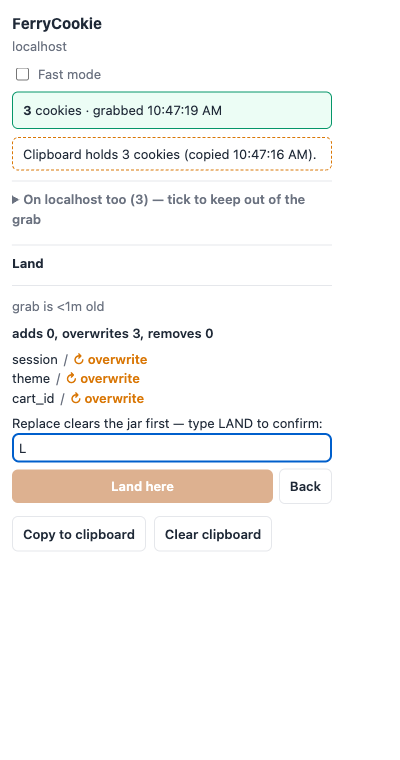
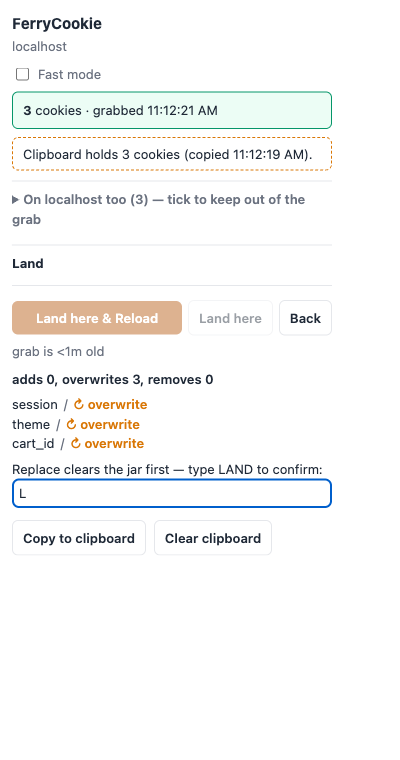
feat: Land here & Reload — the two-click, no-travel fast loop
The diff's action row now leads the screen, and in fast mode it
renders exactly where the fast Land button stood (details and spacing
fold away mid-landing), so the second click lands where the first was:
Fitts's law for the ferry.

The row is three buttons: 'Land here & Reload' (primary — lands,
jar-verifies, then reloads the user's page so the session is visible
immediately), plain 'Land here', and 'Back'. The reload variant only
appears when the active tab IS the landing target — reloading another
page would prove nothing — and reloads the tab resolved at popup-open
(never the popup itself), courtesy-only: a failed reload never taints
the report. Both confirms share one gate (replace's typed LAND,
curated's live checked count, zero-write refusals); Enter stays the
no-reload confirm.

E2e: the fast scenario clicks the reload variant and proves the page
itself reloaded (a pre-set window marker must vanish with the old
context). 16/16. Showcase diff shot regenerated with the new row.

diff --git a/src/popup/land-flow.js b/src/popup/land-flow.js
@@ -53,7 +53,7 @@ const $ = (id) => document.getElementById(id);
 
 const PREFS_KEY = 'fc-land-prefs';
 
-export function initLandFlow({ getProtect, getActiveTabUrl }) {
+export function initLandFlow({ getProtect, getActiveTabUrl, getActiveTab }) {
   const land = {
     view: 'setup', // setup | dialect | diff | report | restore
     chosen: null, // { dialect, parse }
@@ -404,7 +404,16 @@ export function initLandFlow({ getProtect, getActiveTabUrl }) {
 
     const activeUrl = getActiveTabUrl();
     const activeHost = typeof activeUrl === 'string' && activeUrl ? jarKey(activeUrl) : null;
-    $('land-confirm').textContent = activeHost === pipeline.targetHost ? 'Land here' : `Land to ${pipeline.targetHost}`;
+    const here = activeHost === pipeline.targetHost;
+    $('land-confirm').textContent = here ? 'Land here' : `Land to ${pipeline.targetHost}`;
+    // The reload variant only makes sense when the active tab is the target
+    // — reloading some other page would prove nothing about the landing.
+    const reloadBtn = $('land-confirm-reload');
+    reloadBtn.hidden = !here;
+    if (here) reloadBtn.textContent = 'Land here & Reload';
+    // One amber primary per screen: with both shown, the reload path is the
+    // goal continuation and the plain confirm steps back to an outline.
+    $('land-confirm').classList.toggle('secondary', here);
     updateConfirmGate();
   }
 
@@ -471,43 +480,41 @@ export function initLandFlow({ getProtect, getActiveTabUrl }) {
 
   function updateConfirmGate() {
     const plan = land.plan;
-    const confirm = $('land-confirm');
+    let disabled;
+    let why = '';
     if (plan.mode === 'replace') {
-      confirm.disabled = $('land-type-land').value !== 'LAND';
-      return;
-    }
-    if (plan.mode === 'curated') {
+      disabled = $('land-type-land').value !== 'LAND';
+    } else if (plan.mode === 'curated') {
       // Gate on the LIVE checked-row count, not the stale full plan — an
       // empty curated selection must never reach a landing.
-      confirm.disabled = checkedCount() === 0;
-      if (confirm.disabled && land.view === 'diff') {
-        reason('curated landing refused — no rows checked (nothing would land, no snapshot taken)');
-      } else {
-        reason('');
-      }
-      return;
-    }
-    confirm.disabled = plan.writes.length === 0;
-    if (confirm.disabled && land.view === 'diff') {
-      // Name the actual cause — zero writes can come from kept rows,
-      // protected rows, or invalid rows, not only "already present".
-      if (plan.keptExisting.length) {
-        reason('nothing to write — every row is already present (fill-gaps keeps them)');
-      } else if (plan.skippedProtectedCount) {
-        reason('nothing to write — every row is protected (skipped, never written)');
-      } else {
-        reason('nothing to write — no rows survived validation');
+      disabled = checkedCount() === 0;
+      if (disabled && land.view === 'diff') {
+        why = 'curated landing refused — no rows checked (nothing would land, no snapshot taken)';
       }
     } else {
-      reason('');
+      disabled = plan.writes.length === 0;
+      if (disabled && land.view === 'diff') {
+        // Name the actual cause — zero writes can come from kept rows,
+        // protected rows, or invalid rows, not only "already present".
+        if (plan.keptExisting.length) {
+          why = 'nothing to write — every row is already present (fill-gaps keeps them)';
+        } else if (plan.skippedProtectedCount) {
+          why = 'nothing to write — every row is protected (skipped, never written)';
+        } else {
+          why = 'nothing to write — no rows survived validation';
+        }
+      }
     }
+    $('land-confirm').disabled = disabled;
+    $('land-confirm-reload').disabled = disabled; // same gate, both confirms
+    if (land.view === 'diff') reason(why);
   }
 
   // -------------------------------------------------------------------------
   // Confirm → land → report
   // -------------------------------------------------------------------------
 
-  async function onConfirm() {
+  async function onConfirm({ reload = false } = {}) {
     const { targetHost, foreign, filtered, invalid, protect, duplicatesCollapsed } = land.pipeline;
     let plan = land.plan;
     let rows = land.pipeline.rows; // the rows the executed plan must be re-derived from
@@ -549,8 +556,21 @@ export function initLandFlow({ getProtect, getActiveTabUrl }) {
       land.undoSnapshot = result.snapshot;
       renderReport(result.report);
       show('report');
+      if (reload) await reloadActiveTab();
     } catch (err) {
       reason('landing failed: ' + (err?.message ?? String(err)));
+    }
+  }
+
+  // Land & Reload: after the report is on screen, refresh the user's page —
+  // the tab resolved at popup-open (never the popup itself), reloaded only
+  // when it is the landing target. A failed reload never taints the report.
+  async function reloadActiveTab() {
+    try {
+      const tab = getActiveTab?.();
+      if (tab?.id != null) await chrome.tabs.reload(tab.id);
+    } catch {
+      // the landing already reported; the reload is a courtesy
     }
   }
 
@@ -734,6 +754,7 @@ export function initLandFlow({ getProtect, getActiveTabUrl }) {
   });
   $('land-type-land').addEventListener('input', updateConfirmGate);
   $('land-confirm').addEventListener('click', () => guarded(onConfirm));
+  $('land-confirm-reload').addEventListener('click', () => guarded(() => onConfirm({ reload: true })));
   $('land-cancel').addEventListener('click', () => {
     reason('');
     show('setup');

diff --git a/src/popup/popup.html b/src/popup/popup.html
@@ -127,6 +127,15 @@
     </div>
 
     <div id="land-diff" hidden>
+      <!-- The action row leads the screen — in fast mode it renders where
+           the fast Land button was, so the second click needs no mouse
+           travel. Land & Reload appears only when the active tab IS the
+           target (reloading another page would prove nothing). -->
+      <div class="land-row">
+        <button id="land-confirm-reload">Land here &amp; Reload</button>
+        <button id="land-confirm">Land</button>
+        <button id="land-cancel" class="secondary">Back</button>
+      </div>
       <p id="land-freshness" class="meta"></p>
       <p id="land-math"></p>
       <p id="land-capacity" class="warn-line" hidden></p>
@@ -134,10 +143,6 @@
       <div id="land-replace-gate" hidden>
         <label for="land-type-land">Replace clears the jar first — type LAND to confirm:</label>
         <input type="text" id="land-type-land" autocomplete="off" spellcheck="false">
-      </div>
-      <div class="land-row">
-        <button id="land-confirm">Land</button>
-        <button id="land-cancel" class="secondary">Back</button>
       </div>
     </div>
 

diff --git a/src/popup/popup.css b/src/popup/popup.css
@@ -100,6 +100,19 @@ body.landing #fast-view {
   display: none;
 }
 
+/* Fast mode mid-landing: the diff's action row takes the fast button's
+   place — nothing between the header and it, so the second click lands
+   where the first one was. */
+body.fast.landing #fast-details {
+  display: none;
+}
+
+body.fast.landing #land-views {
+  margin-top: 0;
+  border-top: none;
+  padding-top: 0;
+}
+
 #land-views {
   margin-top: 12px;
   border-top: 1px solid var(--line);

diff --git a/src/popup/popup.js b/src/popup/popup.js
@@ -54,6 +54,7 @@ async function init() {
   landFlowApi = initLandFlow({
     getProtect: () => state.protect,
     getActiveTabUrl: () => state.tab?.url ?? null,
+    getActiveTab: () => state.tab, // for Land & Reload — the page, never the popup
   });
   applyFastMode();
   render();

diff --git a/README.md b/README.md
@@ -84,8 +84,10 @@ are on:
   cookies**. On success: *Collected {n} cookies from {site}*.
 - **On the destination** (`localhost`, `*.localhost`): **Land the
   transformed cookies here** — the pinned quick path (dock lane, add-only
-  fill-gaps, this host) ending on the same reviewed diff as always. Fast
-  mode removes clicks *before* the write, never the review of the write.
+  fill-gaps, this host) ending on the same reviewed diff, whose confirm row
+  appears at the same spot: **Land here & Reload** finishes the loop with a
+  refreshed page in two clicks, no mouse travel. Fast mode removes clicks
+  *before* the write, never the review of the write.
 - Everything else — receipt, flags, protect list, the full land controls —
   folds into a **Details** disclosure, closed by default.
 
@@ -111,11 +113,15 @@ a collapsed *Change source, route, or mode* disclosure:
    pinned order (ETC v3 → FC envelope → Playwright `addCookies`); input
    that fits two dialects asks you to pick, never guesses. Unparseable or
    empty input disables Land naming the reason.
-4. **The diff screen** — pre-flight math ("adds 4, overwrites 1, excludes 2
-   foreign"), a freshness line ("grab is 5m old"; bare arrays say
-   "age unknown"), and, in replace mode, a typed `LAND` confirmation.
-   Fill-gaps/merge/curated confirm with one click. Enter confirms, Esc
-   backs out.
+4. **The diff screen** — the action row leads the screen (in fast mode it
+   renders exactly where the fast Land button was, so the second click needs
+   no mouse travel): **Land here & Reload** (lands, verifies, then reloads
+   the page — shown only when the active tab is the target), plain
+   **Land here**, and **Back**. Below it: pre-flight math ("adds 4,
+   overwrites 1, excludes 2 foreign"), a freshness line ("grab is 5m old";
+   bare arrays say "age unknown"), and, in replace mode, a typed `LAND`
+   confirmation. Fill-gaps/merge/curated confirm with one click. Enter
+   confirms, Esc backs out.
 5. **The report** — every row's fate in exactly one bucket:
    `landed` / `overwritten` / `skipped-foreign` / `skipped-protected` /
    `invalid` / `failed` — plus `removed` for replace-mode removals, and a

diff --git a/docs/showcase.md b/docs/showcase.md
@@ -80,6 +80,8 @@ On `localhost`, the same popup becomes the destination — one button, the pinne
 
 ![Fast mode on localhost — Land the transformed cookies here](screenshots/14-fast-land.png)
 
+The diff's confirm row appears where that button was — **Land here & Reload** finishes the loop: land, verify, and the page behind the popup refreshes with the session live. Two clicks, no mouse travel.
+
 Everything else — receipt, flags, protect list, the full land controls — waits behind the **Details** disclosure, closed by default. Fast mode removes clicks before the write, never the review of the write.
 
 ## Cheat sheet
@@ -88,7 +90,7 @@ Everything else — receipt, flags, protect list, the full land controls — wai
 |---|---|---|
 | Copy | popup / context menu / `Ctrl+Cmd+Shift+9` | one click + visible credential state |
 | Fast grab | Fast mode, source site | one click, one-sentence receipt |
-| Fast land | Fast mode, `localhost` | one click to the pinned diff |
+| Fast land | Fast mode, `localhost` | one click to the pinned diff, confirm at the same spot — Land here & Reload |
 | Land (quick) | popup → *Land last grab → localhost* | one click, add-only, reviewed on the diff |
 | Land (fill-gaps, merge, curated) | popup → Change source, route, or mode → Read input → Land | one click on the diff |
 | Land (replace) | popup → mode: replace | type `LAND` |
